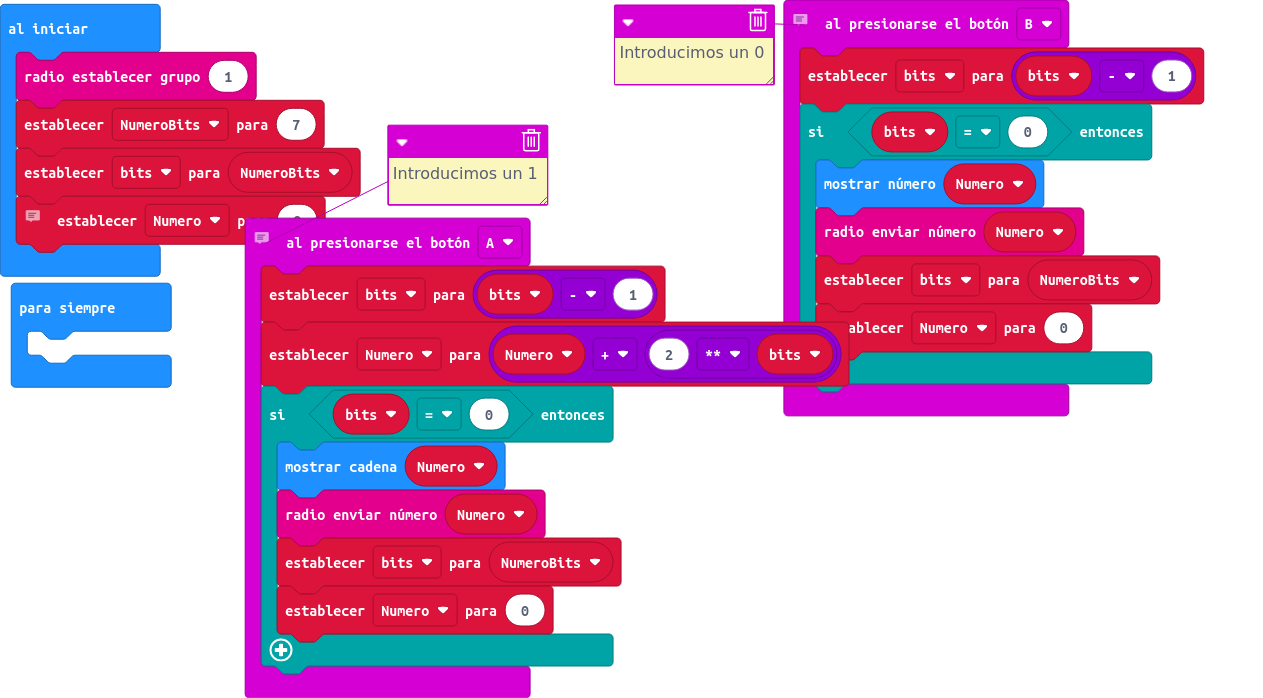
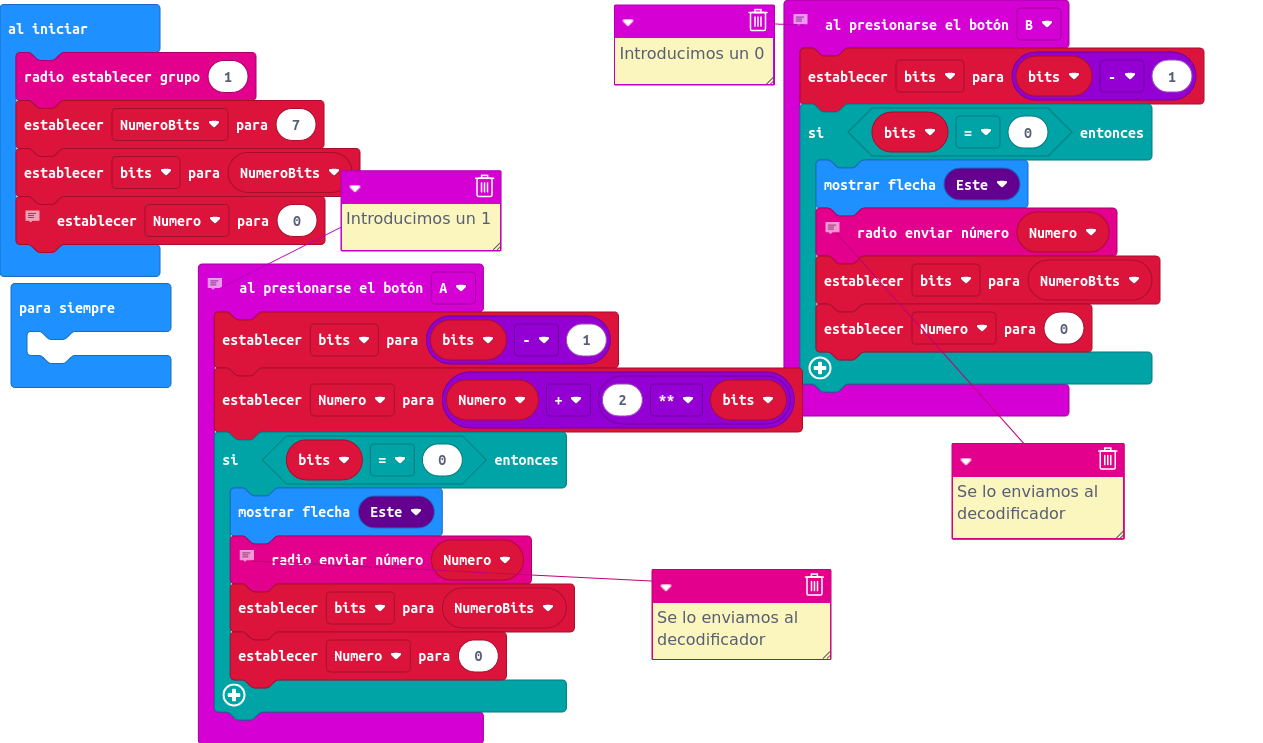
Update main.blocks, main.ts

diff --git a/main.ts b/main.ts
@@ -3,7 +3,8 @@ input.onButtonPressed(Button.A, function () {
     bits = bits - 1
     Numero = Numero + 2 ** bits
     if (bits == 0) {
-        basic.showString("" + (Numero))
+        basic.showArrow(ArrowNames.East)
+        // Se lo enviamos al decodificador
         radio.sendNumber(Numero)
         bits = NumeroBits
         Numero = 0
@@ -13,7 +14,8 @@ input.onButtonPressed(Button.A, function () {
 input.onButtonPressed(Button.B, function () {
     bits = bits - 1
     if (bits == 0) {
-        basic.showNumber(Numero)
+        basic.showArrow(ArrowNames.East)
+        // Se lo enviamos al decodificador
         radio.sendNumber(Numero)
         bits = NumeroBits
         Numero = 0
